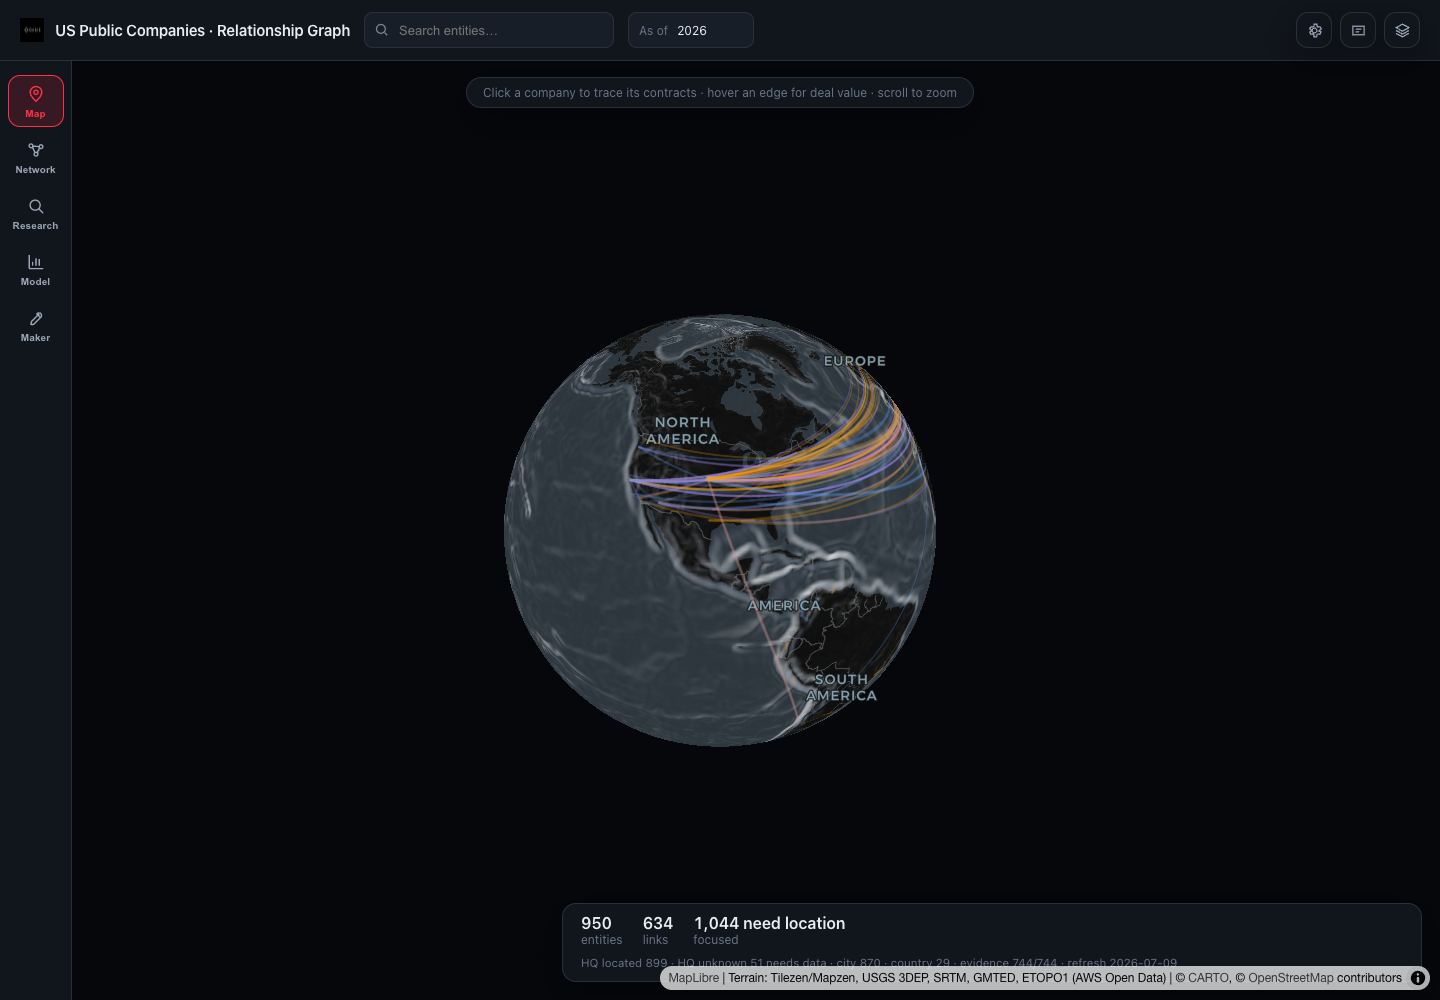
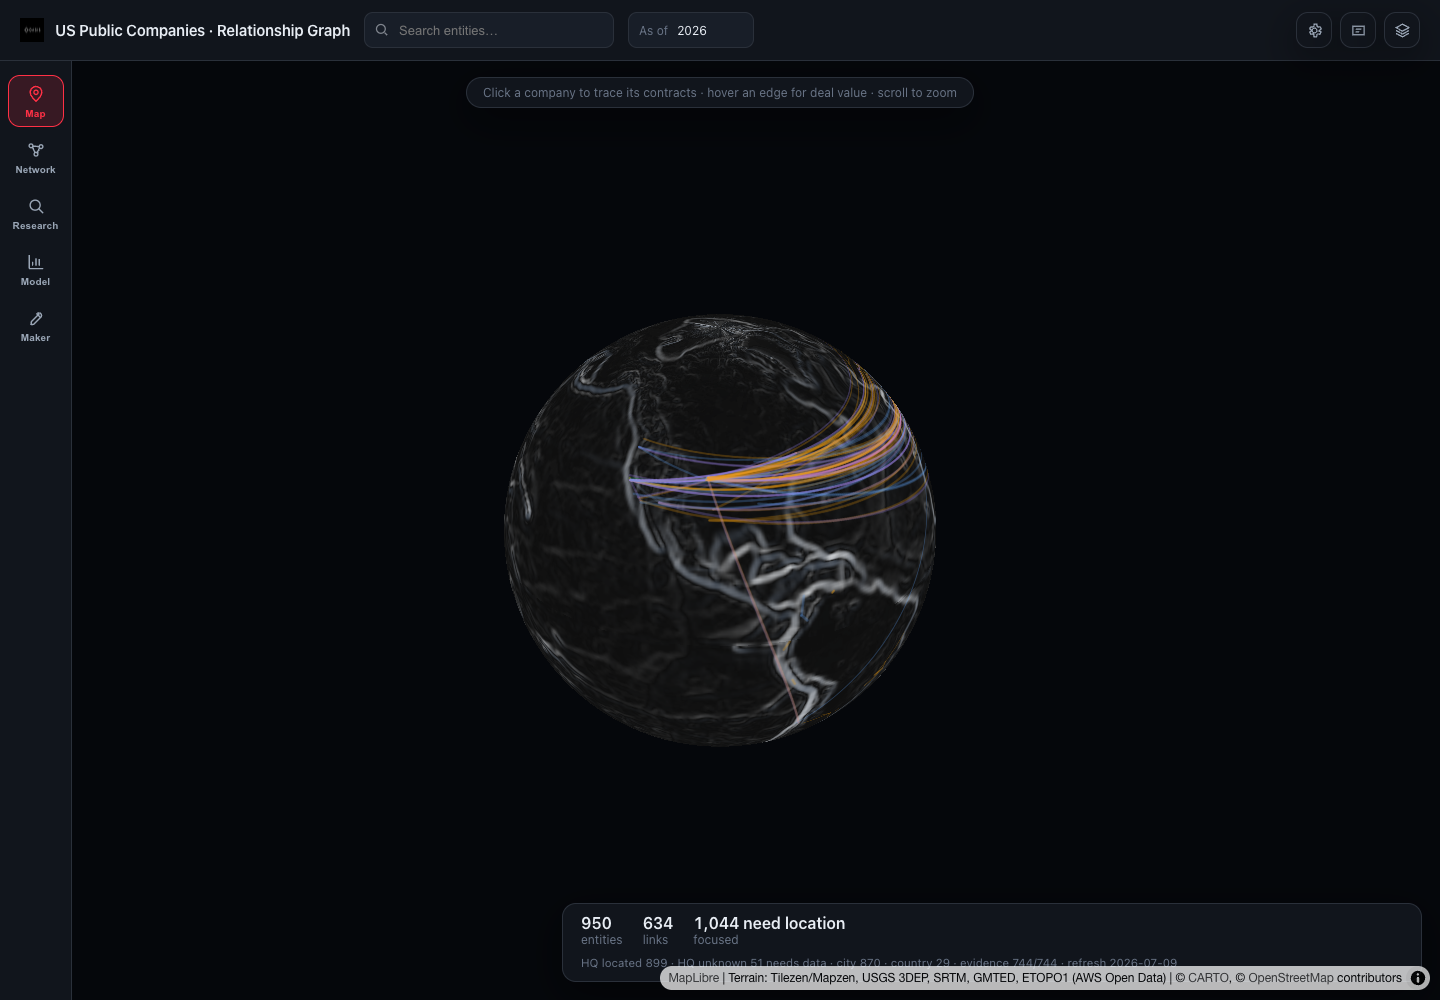
test(maps): normalize basemap glyphs for Chrome verification

Changed region(s): [[0.3438, 0.31, 0.6562, 0.744]]

diff --git a/graph/js/main.js b/graph/js/main.js
@@ -1155,7 +1155,7 @@ async function loadBaseMapStyle(id=productPrefs.basemap){
   return patchBaseMapStyle(await res.json());
 }
 function patchBaseMapStyle(style){
-  if(!style.glyphs) style.glyphs="https://fonts.openmaptiles.org/{fontstack}/{range}.pbf";
+  style.glyphs="https://fonts.openmaptiles.org/{fontstack}/{range}.pbf";
   const building=(style.layers||[]).find(layer=>layer.id==="building-3d");
   if(building?.paint){
     building.paint["fill-extrusion-base"]=["coalesce",["get","render_min_height"],0];

diff --git a/test_product_shell.py b/test_product_shell.py
@@ -33,6 +33,7 @@ def test_main() -> None:
         "function normalizeBaseMapLabels",
         "function renderMapStudio",
         "function switchBasemap",
+        'style.glyphs="https://fonts.openmaptiles.org/{fontstack}/{range}.pbf";',
         "function saveMapSlot",
         "Satellite Site Analysis",
         "not loaded yet",

diff --git a/docs/PHASE-1-5-STAGING-ACCEPTANCE.md b/docs/PHASE-1-5-STAGING-ACCEPTANCE.md
@@ -76,6 +76,20 @@ npx playwright test
 15 passed
 ```
 
+After the dark-basemap glyph normalization fix:
+
+```text
+node --check graph/js/main.js
+python3 -m pytest -q test_product_shell.py
+3 passed
+
+python3 -m pytest -q
+109 passed, 1 skipped, 1 warning in 24.98s
+
+npx playwright test
+15 passed
+```
+
 The direct `pytest -q` shell command was unavailable because the `pytest` console script was not on `PATH`; `python3 -m pytest -q` was used successfully.
 
 ## 3. Environment And Host
@@ -122,18 +136,14 @@ styleLoaded: true
 MapLibre canvas: visible, 1440 x 939
 unpkg.com requests: none
 vendored MapLibre 5.6.2 requested: yes
+glyph endpoint: https://fonts.openmaptiles.org/{fontstack}/{range}.pbf
+unexpected console errors: none
+CARTO font requests: none
 evidence: docs/evidence/phase-1-5/chrome-dark-maplibre.png
 metadata: docs/evidence/phase-1-5/chrome-dark-maplibre.json
 ```
 
-Finding: dark basemap produced a CARTO font CORS console error:
-
-```text
-Access to fetch at 'https://tiles.basemaps.cartocdn.com/fonts/Noto%20Sans%20Bold/0-255.pbf'
-from origin 'http://127.0.0.1:8788' has been blocked by CORS policy
-```
-
-The dark map rendered visually, but the Phase 1.5 "no unexpected console errors" gate is not clean until this is triaged or documented as expected provider behavior.
+Follow-up fix: `graph/js/main.js` now normalizes all basemap glyph URLs to the CORS-safe OpenMapTiles endpoint already used by the satellite style. `test_product_shell.py` asserts this guardrail. The previous CARTO font CORS console error is no longer observed in installed Chrome.
 
 Satellite basemap:
 
@@ -527,12 +537,11 @@ Docker availability check
 ## 19. Remaining Risks
 
 1. Docker is not installed in the current environment, so compose deployment, container isolation, reverse proxy, and staging PostgreSQL gates are unverified.
-2. Dark basemap renders but emits a CARTO font CORS console error in installed Chrome.
-3. Firefox and Safari real-browser rendering are not verified.
-4. The route inventory differs from the objective baseline: `server.app` currently assembles 100 routes, not 79.
-5. Deployed authentication, authorization, map-slot synchronization, backup/restore, security headers, observability, failure recovery, and staging performance targets remain unproven.
-6. Deployment workflow still contains placeholder deploy commands and needs real staging/registry integration evidence.
-7. Licensing checks require current official source review before commercial launch; disabled providers do not block private beta, but staging flag state still needs explicit verification.
+2. Firefox and Safari real-browser rendering are not verified.
+3. The route inventory differs from the objective baseline: `server.app` currently assembles 100 routes, not 79.
+4. Deployed authentication, authorization, map-slot synchronization, backup/restore, security headers, observability, failure recovery, and staging performance targets remain unproven.
+5. Deployment workflow still contains placeholder deploy commands and needs real staging/registry integration evidence.
+6. Licensing checks require current official source review before commercial launch; disabled providers do not block private beta, but staging flag state still needs explicit verification.
 
 ## 20. Final Verdict
 
@@ -540,4 +549,4 @@ Docker availability check
 NOT APPROVED
 ```
 
-OASIS has passed the Phase 1 merge, local Python tests, local Playwright tests, secure-config validation, disposable migration wiring, and installed-Chrome Standard/Dark/Satellite render checks. It is not approved for controlled private beta until the unverified staging-host gates are executed successfully and the dark basemap console error plus route-count discrepancy are resolved or formally accepted.
+OASIS has passed the Phase 1 merge, local Python tests, local Playwright tests, secure-config validation, disposable migration wiring, and installed-Chrome Standard/Dark/Satellite render checks. It is not approved for controlled private beta until the unverified staging-host gates are executed successfully and the route-count discrepancy is resolved or formally accepted.
